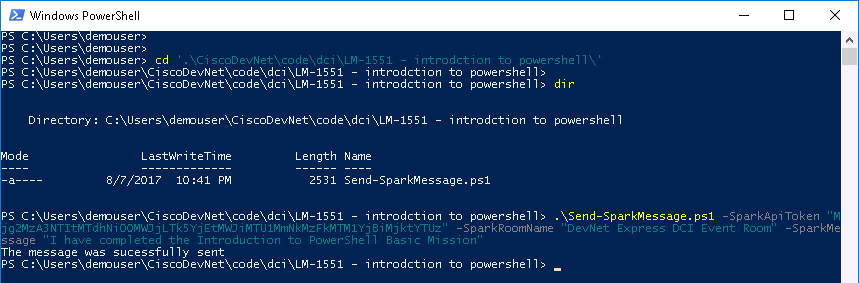
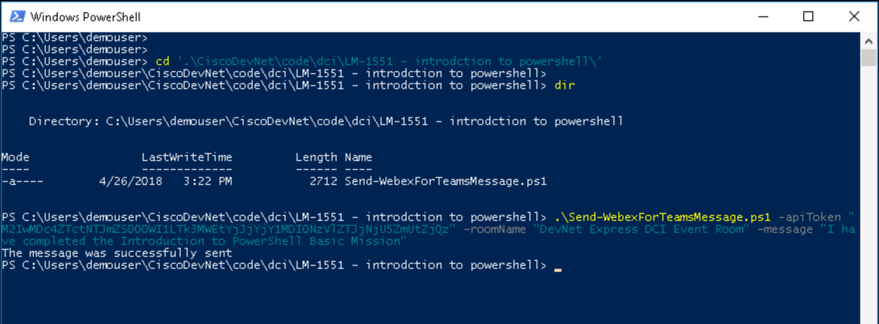
Webex for Teams Updates

diff --git a/labs/dne-dcip-introduction-to-powershell-mission-01-v01/4.md b/labs/dne-dcip-introduction-to-powershell-mission-01-v01/4.md
@@ -24,51 +24,54 @@
 
 ### Mission Completion
 
-Update the **Event Spark Room** with a ***Completion Message***
+Update the **DevNet Express** event **Webex for Teams Space** with a ***Mission Completion Message***
 
-  1. Retrieve your Spark API Access Token. This token is your permanent developer token and is used to access Spark APIs.
+1. Retrieve your **Webex for Teams**, formerly Cisco Spark, API Token. The token is used to authenticate and access the Webex for Teams APIs.
 
-    - Login to [Spark Developer Website](https://developer.ciscospark.com/)
-    - ***Click*** on your profile image
-    - ***Click*** **Copy** to copy your access token to the clipboard<br/><br/>
+  - Login to the [Cisco Webex for Developers site](https://developer.webex.com/getting-started.html)
+  - Midway down the "Getting Started" page under the **Authentication** section your current API authentication token will be available for copying.
+  - ***Click*** **Copy** to copy your access token to the clipboard<br/><br/>
 
-    <!--![](assets/images/image-07.jpg)<br/><br/>-->
+    ![](assets/images/image-07.jpg)<br/><br>
 
-    ![](/posts/files/dne-dcip-introduction-to-powershell-mission-01-v01/assets/images/image-07.jpg)<br/><br/>
+2. Ensure that the PowerTool client is set to use the correct TLS/SSL settings for communicating with the Webex for Teams APIs by running this command.
 
-  2. Use the PowerShell `Invoke-RestMethod` Cmdlet to Retrieve the DevNet Express Event Room Id
+  ```PowerShell
+  [System.Net.ServicePointManager]::SecurityProtocol = [System.Net.SecurityProtocolType]::Ssl3 -bor [System.Net.SecurityProtocolType]::Tls -bor [System.Net.SecurityProtocolType]::Tls11 -bor [System.Net.SecurityProtocolType]::Tls12
+  ```
 
-    - Cisco Spark has a REST API to retrieve all the Rooms that you are subscribed to. To execute the API through the PowerShell `Invoke-RestMethod` Cmdlet you will need to send your Access Token in the header of the request using a [PowerShell hash table construct](https://docs.microsoft.com/en-us/powershell/module/Microsoft.PowerShell.Core/about_Hash_Tables?view=powershell-5.1). A PowerShell hash table is a common programming construct know as an [*Associative Array*](https://en.wikipedia.org/wiki/Comparison_of_programming_languages_&#40;associative_array&#41;) and is similar to a Python Dictionary (dict). The elements of a hash table are ***Key/Value*** pairs. Set these values in the hash table `$headers` (this is an arbitrary variable name, you could have used any name).
+3. Use the PowerShell `Invoke-RestMethod` Cmdlet to Retrieve the DevNet Express Event Room Id
 
-      - **Authorization** - The value is ***your*** API Token, prefixed by the string "**Bearer** "
-      - **Content-Type** - The value is **application/json** - This indicates the format of request data (if any).
-      - **Accept** - The value is **application/json** - This indicates the **requested** format of response data (if any).
+  - Webex for Teams has a REST API to retrieve all the Rooms that to which you are subscribed. To execute the API through the PowerShell `Invoke-RestMethod` Cmdlet you will need to send your Access Token in the header of the request using a [PowerShell hash table construct](https://docs.microsoft.com/en-us/powershell/module/Microsoft.PowerShell.Core/about_Hash_Tables?view=powershell-5.1).
+  - A PowerShell hash table is a common programming construct know as an [*Associative Array*](https://en.wikipedia.org/wiki/Comparison_of_programming_languages_&#40;associative_array&#41;) and is similar to a Python Dictionary (dict). The elements of a hash table are ***Key/Value*** pairs. Set these values in the hash table `$headers` (this is an arbitrary variable name, you could have used any name).
+
+    - **Authorization** - The value is ***your*** API Token, prefixed by the string "**Bearer** "
+    - **Content-Type** - The value is **application/json** - This indicates the format of request data (if any).
+    - **Accept** - The value is **application/json** - This indicates the **requested** format of response data (if any).</br></br>
 
     ```PowerShell
-    $headers = @{"Authorization" = "Bearer ***your*** API Token"; "Content-Type" = "application/json"; "Acccept" = "application/json"}
+    $headers = @{"Authorization" = "Bearer <your-api-token>"; "Content-Type" = "application/json"; "Acccept" = "application/json"}
     ```
 
-    - Use the Cisco Spark Rooms API and find the DevNet Express Event Room. In this example the room name is **"DevNet Express DCI Event Room"**. The Cisco Spark Rooms API will return a JSON construct that PowerShell will put into an array of hash tables, one hash table for each room. The array is called **items**
+  - Use the Webex for Teams Rooms API and find the DevNet Express Event Room. In this example the room name is **"DevNet Express DCI Event Room"**. The Webex for Teams Rooms API will return a JSON construct that PowerShell will put into an array of hash tables, one hash table for each room. The array is named **items**
 
-      - The Cisco Spark Rooms API Uri is https://api.ciscospark.com/v1/rooms
+    - The Webex for Teams Rooms API Uri is https://api.ciscospark.com/v1/rooms</br></br>
 
     ```PowerShell
     Invoke-RestMethod -Uri https://api.ciscospark.com/v1/rooms -Headers $headers | %{$_.items | ?{$_.title -eq "DevNet Express DCI Event Room"} |  Select-Object id, title}
     ```
 
-      - The default *method* for `Invoke-RestMethod` is **GET** and does not need to be specified.
-      - The results of the `Invoke-RestMethod` Cmdlet are pipelined to a `ForEach-Object` Cmdlet
-      - Each Object is pipelined to a `Where-Object` Cmdlet
-      - When the hash table with a `title` key that has a `value` that matches the Room name, the `title` and `id` values from the hash table are displayed.<br/><br/>
+    - The default HTTP *method* for `Invoke-RestMethod` is **GET** and does not need to be specified.
+    - The results of the `Invoke-RestMethod` Cmdlet are pipelined to a `ForEach-Object` Cmdlet
+    - Each Object is pipelined to a `Where-Object` Cmdlet
+    - When the hash table entry with a `title` key that has a `value` that matches the Room name, the `title` and `id` values from the hash table are displayed.<br/><br/>
 
-    <!--![](assets/images/image-08.jpg)<br/><br/>-->
+    ![](assets/images/image-08.jpg)<br/><br/>
 
-    ![](/posts/files/dne-dcip-introduction-to-powershell-mission-01-v01/assets/images/image-08.jpg)<br/><br/>
+4. Post the message "I have completed the Introduction to PowerShell Basic Mission" to the DevNet Express Event Room
 
-  3. Post the message "I have completed the Introduction to PowerShell Basic Mission" to the DevNet Express Event Room
-
-    - Cisco Spark has a REST API to send Messages. To execute the API through the PowerShell `Invoke-RestMethod` Cmdlet you will need to send your Access Token in the header of the request, as well the Messages API requires the message and the destination Room Id in JSON format.
-    - The Cisco Spark Messages API Uri is https://api.ciscospark.com/v1/
+  - Webex for Teams has a REST API to send Messages. To execute the API through the PowerShell `Invoke-RestMethod` Cmdlet you will need to send your Access Token in the header of the request, as well the Messages API requires the message and the destination Room Id in JSON format.
+  - The Webex for Teams Messages API Uri is https://api.ciscospark.com/v1/
 
     ```PowerShell
[1 lines of base64/hex data omitted]
@@ -76,38 +79,32 @@ Update the **Event Spark Room** with a ***Completion Message***
     Invoke-RestMethod -Uri https://api.ciscospark.com/v1/messages -Method POST -Headers $headers -Body $('{"roomId":"' + $devnet_express_room_id + '", "text":"I have completed the Introduction to PowerShell Basic Mission"}')
     ```
 
-      - The **POST** method was specified for `Invoke-RestMethod`
-      - The **Body** JSON was specified
-      - The **Body** JSON is evaluated first by utilizing the `$()` construct in PowerShell<br/><br/>
+    - The **POST** method was specified for `Invoke-RestMethod`
+    - The **Body** JSON was specified
+    - The **Body** JSON is evaluated first by utilizing the `$()` construct in PowerShell<br/><br/>
 
-    <!--![](assets/images/image-09.jpg)<br/><br/>-->
+    ![](assets/images/image-09.jpg)<br/><br/>
 
-    ![](/posts/files/dne-dcip-introduction-to-powershell-mission-01-v01/assets/images/image-09.jpg)<br/><br/>
+5. View your message in the DevNet Express Event Room.
 
-  4. View your message in the DevNet Express Event Room.
-
-    <!--![](assets/images/image-10.jpg)<br/><br/>-->
-
-    ![](/posts/files/dne-dcip-introduction-to-powershell-mission-01-v01/assets/images/image-10.jpg)<br/><br/>
+  ![](assets/images/image-10.jpg)<br/><br/>
 
 ### Mission Completion - Quick Mode
 
-  Run the PowerShell Script `Send-SparkMessage.ps1`
+  Run the PowerShell Script `Send-WebexForTeamsMessage.ps1`
 
-  1. Change to the directory "C:\Users\demouser\CiscoDevNet\code\dci\LM-1551 - introduction to powershell"
+1. Change to the directory "C:\Users\demouser\CiscoDevNet\code\dci\LM-1551 - introduction to powershell"
 
-  2. Run the `Send-SparkMessage.ps1` Cmdlet, specify the following parameters:
+2. Run the `Send-WebexForTeamsMessage.ps1` Cmdlet, specify the following parameters:
 
-    - -SparkApiToken - The value is your API Token in double quotes
-    - -SparkRoomName - The value is the name of the Spark Room to send the message to in double quotes
-    - -SparkMessage - The value is the message in double quotes
+  - -apiToken - The value is your API Token in double quotes
+  - -roomName - The value is the name of the Spark Room to send the message to in double quotes
+  - -message - The value is the message in double quotes
 
-    ```PowerShell
-    .\Send-SparkMessage.ps1 -SparkApiToken "ZDNiZmFiOWEtN2Y3Zi00YjI3LWI3NWItYmNkNzQxOTUyYmZiNWQ0ZTY5N2ItOT" -SparkRoomName "DevNet Express DCI Event Room" -SparkMessage "I have completed the Introduction to PowerShell Basic Mission"
-    ```
+  ```PowerShell
+  .\Send-WebexForTeamsMessage.ps1 -apiToken "ZDNiZmFiOWEtN2Y3Zi00YjI3LWI3NWItYmNkNzQxOTUyYmZiNWQ0ZTY5N2ItOT" -roomName "DevNet Express DCI Event Room" -message "I have completed the Introduction to PowerShell Basic Mission"
+  ```
 
-    <!--![](assets/images/image-11.jpg)<br/><br/>-->
-
-    ![](/posts/files/dne-dcip-introduction-to-powershell-mission-01-v01/assets/images/image-11.jpg)<br/><br/>
+  ![](assets/images/image-11.jpg)<br/><br/>
 
 Congratulations you have completed the Basic Mission for Introduction to PowerShell. If you want to try your PowerShell skills at something a little trickier, try the Introduction to PowerShell Advanced Mission.
